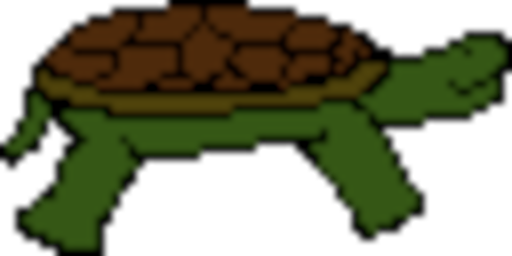
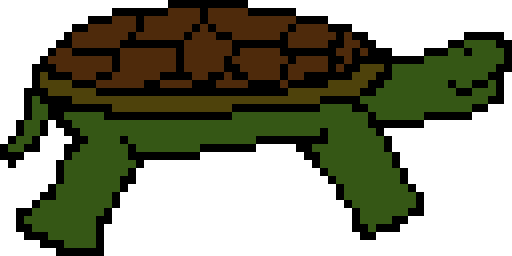
now using turtle spritesheet

diff --git a/src/game/scenes/Preloader.js b/src/game/scenes/Preloader.js
@@ -34,12 +34,63 @@ export class Preloader extends Scene
         this.load.image('turtle-mouth-open', 'TurtleMouthOpen.png');
         this.load.image('turtle-mouth-closed', 'TurtleMouthClosed.png');
         this.load.image('hand', 'Hand.png');
+
+        this.load.spritesheet('turtle', 'TurtleSpriteSheet.png', {
+            frameWidth: 64,
+            frameHeight: 32
+        });
     }
 
     create ()
     {
         //  When all the assets have loaded, it's often worth creating global objects here that the rest of the game can use.
         //  For example, you can define global animations here, so we can use them in other scenes.
+        this.textures.get('turtle').setFilter(Phaser.Textures.FilterMode.NEAREST);
+
+        this.anims.create({
+            key: 'turtle-idle',
+            frameRate: 0,
+            repeat: -1,
+            frames: this.anims.generateFrameNumbers('turtle', {
+                frames: [0]
+            })
+        })
+
+        this.anims.create({
+            key: 'turtle-attack',
+            frameRate: 0,
+            repeat: 0,
+            frames: this.anims.generateFrameNumbers('turtle', {
+                frames: [1]
+            })
+        })
+
+        this.anims.create({
+            key: 'turtle-miss',
+            frameRate: 0,
+            repeat: 0,
+            frames: this.anims.generateFrameNumbers('turtle', {
+                frames: [1]
+            })
+        })
+
+        this.anims.create({
+            key: 'turtle-victory',
+            frameRate: 0,
+            repeat: -1,
+            frames: this.anims.generateFrameNumbers('turtle', {
+                frames: [3]
+            })
+        })
+
+        this.anims.create({
+            key: 'turtle-defeat',
+            frameRate: 0,
+            repeat: -1,
+            frames: this.anims.generateFrameNumbers('turtle', {
+                frames: [4]
+            })
+        })
 
         //  Move to the MainMenu. You could also swap this for a Scene Transition, such as a camera fade.
         this.scene.start('MainMenu');

diff --git a/src/game/scenes/Game.js b/src/game/scenes/Game.js
@@ -22,8 +22,11 @@ export class Game extends Scene
         this.mouthX = this.centerX;
         this.mouthY = this.centerY;
 
-        this.mouthOpen = this.add.image(this.mouthX, this.mouthY, 'turtle-mouth-open').setOrigin(0.5).setDepth(2);
-        this.mouthClosed = this.add.image(this.mouthX, this.mouthY, 'turtle-mouth-closed').setOrigin(0.5).setDepth(3).setVisible(false);
+        // this.mouthClosed = this.add.image(this.mouthX, this.mouthY, 'turtle-mouth-closed').setOrigin(0.5).setDepth(3).setVisible(false);
+        // this.mouthOpen = this.add.image(this.mouthX, this.mouthY, 'turtle-mouth-open').setOrigin(0.5).setDepth(2);
+
+        this.mouthClosed = this.add.sprite(this.mouthX, this.mouthY, 'turtle', 0).setScale(8).setOrigin(0.5).setDepth(3).setVisible(false);
+        this.mouthOpen = this.add.sprite(this.mouthX, this.mouthY, 'turtle', 1).setScale(8).setOrigin(0.5).setDepth(2);
 
         // Hand - start off-screen to the right. Use origin (1,0.5) so scaleX reduces from the right edge inward.
     this.handY = this.mouthY + Math.round(this.mouthOpen.displayHeight * 0.18) - 90;
